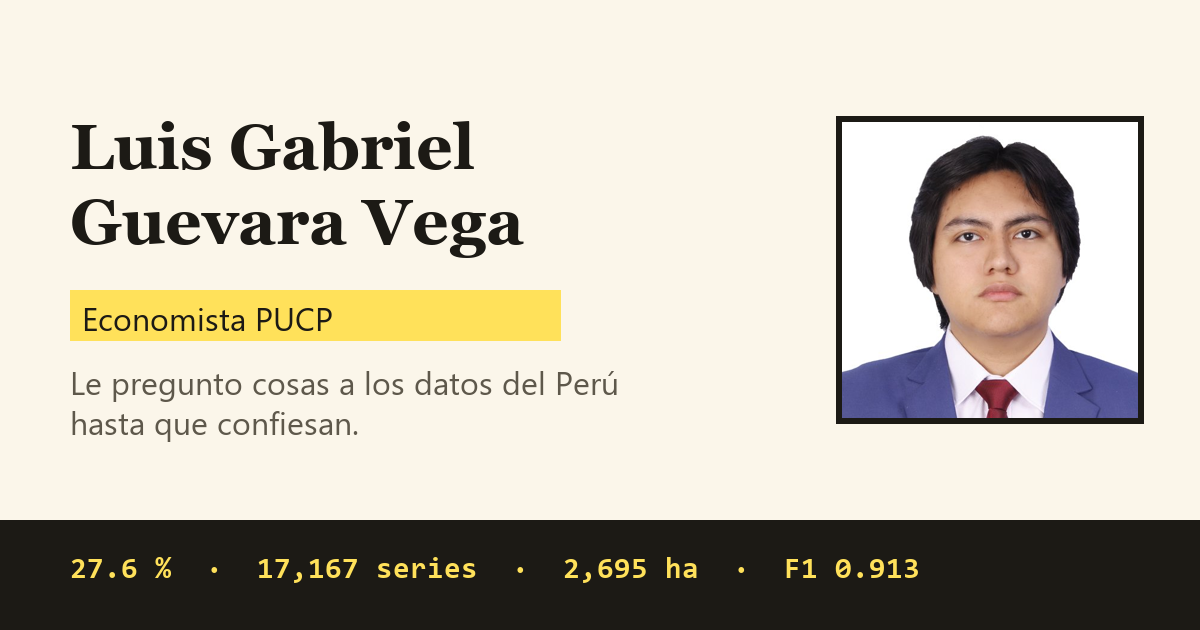
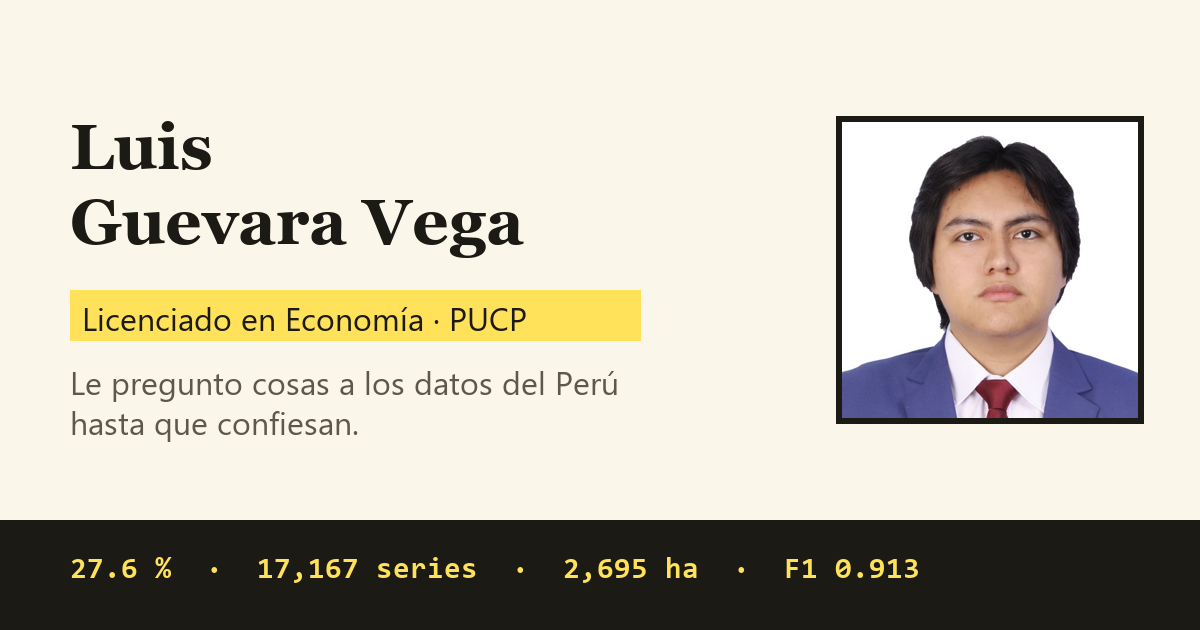
Ajustes: licenciado, nombre, foto más chica, Ahora mismo, un solo video, tesis y CV actualizados

Changed region(s): [[0.0617, 0.4825, 0.4317, 0.5429], [0.185, 0.181, 0.4008, 0.2714], [0.4625, 0.4524, 0.555, 0.5429]]

diff --git a/_layouts/inicio.html b/_layouts/inicio.html
@@ -9,10 +9,10 @@ layout: default
 
   <section class="hero">
     <div class="hero__texto">
-      <p class="kicker">Economista PUCP · Lima, Perú</p>
+      <p class="kicker">Licenciado en Economía · PUCP · Lima, Perú</p>
       <h1>Le pregunto cosas a los datos del Perú <em>hasta que confiesan.</em></h1>
       <p class="hero__bio">
-        Soy <strong>Luis Gabriel Guevara Vega</strong>, especialista de monitoreo y evaluación en
+        Soy <strong>Luis Guevara Vega</strong>, licenciado en Economía por la PUCP y analista y gestor de datos de monitoreo en
         <a href="https://www.copeme.org.pe">COPEME</a>. Uso Python, R y Claude Code para medir lo que pasa en el Perú:
         pobreza, incendios, aprendizajes y empleo.
       </p>
@@ -27,8 +27,8 @@ layout: default
       </ul>
     </div>
     <figure class="polaroid">
-      <img src="{{ base_path }}/images/perfil.jpg" alt="Foto de Luis Gabriel Guevara Vega" fetchpriority="high">
-      <figcaption>modo terno: activado</figcaption>
+      <img src="{{ base_path }}/images/perfil.jpg" alt="Foto de Luis Guevara Vega" fetchpriority="high">
+      <figcaption>conectando puntos (y bases de datos)</figcaption>
     </figure>
   </section>
 
@@ -62,7 +62,7 @@ layout: default
 
   <section class="seccion dos-columnas">
     <article class="caja">
-      <p class="kicker">Tesis de licenciatura · Mención sobresaliente</p>
+      <p class="kicker">Tesis de licenciatura · <strong>Mención sobresaliente</strong></p>
       <h2>¿Sirvió el licenciamiento de universidades para conseguir mejores empleos?</h2>
       <p>Medí el efecto de la regulación de la SUNEDU sobre la inadecuación profesional de los egresados, con la ENAHO 2014–2022, diferencias en diferencias y variables instrumentales.</p>
       <div class="numeros">
@@ -75,9 +75,9 @@ layout: default
     <article class="caja">
       <p class="kicker">Ahora mismo</p>
       <ul class="ahora-lista">
-        <li><span class="emoji" aria-hidden="true">📊</span><p>Hago el monitoreo y la evaluación de <b>«Tejiendo Futuros»</b> en Ayacucho y Amazonas, con COPEME.</p></li>
+        <li><span class="emoji" aria-hidden="true">⚓</span><p>Lidero el monitoreo del nuevo proyecto de COPEME asociado al <b>puerto de Chancay</b>, con financiamiento de la cooperación alemana.</p></li>
         <li><span class="emoji" aria-hidden="true">🤖</span><p>Estoy en la diplomatura de ciencia de datos de <b>QLab PUCP</b>, construyendo cosas con Claude Code.</p></li>
-        <li><span class="emoji" aria-hidden="true">🎬</span><p>Hice dos reels narrados con mi voz clonada (y avisando que es IA). <a href="{{ base_path }}/videos/">Míralos aquí</a>.</p></li>
+        <li><span class="emoji" aria-hidden="true">🎓</span><p>Me acabo de incorporar al <b>Colegio de Economistas de Lima (CEL)</b>. <a href="https://lnkd.in/p/eRGwcDGe">Lo conté aquí</a>.</p></li>
       </ul>
     </article>
   </section>

diff --git a/assets/css/gabo.css b/assets/css/gabo.css
@@ -170,7 +170,7 @@ html[data-theme="dark"] .boton--rojo { color: #16150f !important; }
   padding: 1rem 0 2.5rem;
 }
 @media (min-width: 860px) {
-  .hero { grid-template-columns: 1.55fr 1fr; }
+  .hero { grid-template-columns: 1.9fr 1fr; }
 }
 .hero h1 {
   font-size: clamp(2.2rem, 6vw, 4.1rem);
@@ -199,7 +199,7 @@ html[data-theme="dark"] .boton--rojo { color: #16150f !important; }
 
 .polaroid {
   justify-self: center;
-  width: min(300px, 78vw);
+  width: min(230px, 62vw);
   margin: 0;
   padding: 14px 14px 0;
   background: #fff;
@@ -397,8 +397,9 @@ html[data-theme="dark"] .boton--rojo { color: #16150f !important; }
 }
 
 /* ---------- Videos ---------- */
-.videos { display: grid; gap: 2rem; grid-template-columns: 1fr; }
-@media (min-width: 760px) { .videos { grid-template-columns: repeat(2, 1fr); } }
+.videos { display: grid; gap: 2rem; grid-template-columns: 1fr; max-width: 440px; }
+.figura-chica { max-width: 640px; }
+.figura-chica img { width: 100%; }
 .video {
   background: var(--tarjeta);
   border: 2px solid var(--linea);

diff --git a/_pages/cv.md b/_pages/cv.md
@@ -3,7 +3,7 @@ layout: ancho
 title: "CV"
 permalink: /cv/
 kicker: "Currículum · actualizado a noviembre de 2026"
-bajada: "Economista PUCP con experiencia en monitoreo y evaluación de proyectos sociales. Uso Python, R, Stata y Power BI para dar seguimiento a lo que importa."
+bajada: "Licenciado en Economía por la PUCP, con experiencia en monitoreo y evaluación de proyectos sociales. Uso Python, R, Stata y Power BI para dar seguimiento a lo que importa."
 ---
 
 <p class="hero__botones">
@@ -16,7 +16,12 @@ bajada: "Economista PUCP con experiencia en monitoreo y evaluación de proyectos
 
 <ul class="linea-tiempo">
   <li>
-    <span class="cuando">JUN 2026 – HOY · COPEME</span>
+    <span class="cuando">ACTUAL · COPEME</span>
+    <h3>Analista y Gestor de Datos de Monitoreo</h3>
+    <p>Lidero el monitoreo del nuevo proyecto asociado al puerto de Chancay, con financiamiento de la cooperación alemana. Doy consultoría a cooperativas de café en Pichanaki (Junín) y automatizo datos para asociaciones de castaña en Puerto Maldonado (Madre de Dios).</p>
+  </li>
+  <li>
+    <span class="cuando">JUN 2026 · COPEME</span>
     <h3>Especialista de Monitoreo y Evaluación</h3>
     <p>Proyecto «Tejiendo Futuros: Información que Empodera» (Ayacucho y Amazonas), gestionado por SENAJU con financiamiento de APC Colombia. Elaboré los planes MERL y de sistematización de experiencias.</p>
   </li>
@@ -41,9 +46,19 @@ bajada: "Economista PUCP con experiencia en monitoreo y evaluación de proyectos
 
 <ul class="linea-tiempo">
   <li>
+    <span class="cuando">2026 · COLEGIO DE ECONOMISTAS DE LIMA</span>
+    <h3>Economista colegiado (CEL)</h3>
+    <p>Recién incorporado al Colegio de Economistas de Lima. <a href="https://lnkd.in/p/eRGwcDGe">Ver la publicación</a>.</p>
+  </li>
+  <li>
+    <span class="cuando">AGO 2026 – HOY · QLab, Facultad de Ciencias Sociales PUCP</span>
+    <h3>Diplomado de Ciencia de Datos · <mark>Becado</mark></h3>
+    <p>Diplomatura de Especialización en Ciencia de Datos para las Ciencias Sociales y la Gestión Pública, en curso. Python, R y Claude Code aplicados a datos del Perú. Los trabajos están en <a href="{{ site.baseurl }}/proyectos/">Proyectos</a>.</p>
+  </li>
+  <li>
     <span class="cuando">JUL 2026 · PUCP</span>
     <h3>Licenciado en Economía</h3>
-    <p>Mención sobresaliente. <a href="{{ site.baseurl }}/tesis/">Ver la tesis</a>.</p>
+    <p><strong>Mención sobresaliente.</strong> <a href="{{ site.baseurl }}/tesis/">Ver la tesis</a>.</p>
   </li>
   <li>
     <span class="cuando">DIC 2019 – OCT 2024 · PUCP</span>
@@ -51,9 +66,9 @@ bajada: "Economista PUCP con experiencia en monitoreo y evaluación de proyectos
     <p>Quinto superior.</p>
   </li>
   <li>
-    <span class="cuando">2026 · QLab, Facultad de Ciencias Sociales PUCP</span>
-    <h3>Ciencia de datos: Python, R y Claude Code</h3>
-    <p>Beca en la Summer School 2026 y cursos de la diplomatura en ciencia de datos. Los proyectos están en <a href="{{ site.baseurl }}/proyectos/">Proyectos</a>.</p>
+    <span class="cuando">FEB 2026 – ABR 2026 · QLab, Facultad de Ciencias Sociales PUCP</span>
+    <h3>Summer School 2026 · <mark>Becado</mark></h3>
+    <p>Cursos especializados en análisis económico y ciencia de datos del Laboratorio de Inteligencia Artificial y Métodos Computacionales en Ciencias Sociales (QLab).</p>
   </li>
 </ul>
 

diff --git a/_pages/videos.md b/_pages/videos.md
@@ -2,8 +2,8 @@
 layout: ancho
 title: "Videos"
 permalink: /videos/
-kicker: "Reels · un minuto cada uno"
-bajada: "Dos informes convertidos en reels verticales, narrados con mi voz clonada con IA. Cada cifra se revisó contra el informe original."
+kicker: "Reel · 57 segundos"
+bajada: "Un informe convertido en reel vertical, narrado con mi voz clonada con IA. Cada cifra se revisó contra los datos originales."
 ---
 
 <div class="videos">
@@ -17,15 +17,5 @@ bajada: "Dos informes convertidos en reels verticales, narrados con mi voz clona
     <h3>Aprender después de la pandemia</h3>
     <p>57 segundos sobre cuánto aprendizaje se perdió con el cierre de escuelas y quiénes se quedan atrás. Las figuras salen de los datos del MINEDU y la música es CC BY.</p>
     <p class="enlaces"><a href="{{ site.baseurl }}/portfolio/04-aprendizajes/">El proyecto</a><a href="https://github.com/LuisGuevaraVega/python_interm_dip_qlab/tree/main/tarea_3/reel">Cómo se hizo</a></p>
-  </article>
-
-  <article class="video">
-    <a class="video__portada" href="https://github.com/LuisGuevaraVega/reel-incendios/blob/main/salidas/reel.mp4" aria-label="Ver el reel de incendios en GitHub">
-      <img src="{{ site.baseurl }}/images/proyectos/reel-incendios.jpg" alt="Portada del reel sobre los incendios de Chichas y Río Tambo" loading="lazy">
-    </a>
-    <span class="aviso-ia">Voz generada con IA</span>
-    <h3>Incendios en el Perú vistos desde el espacio</h3>
-    <p>59.6 segundos sobre los incendios de Chichas y Río Tambo. El guion lo escribió DeepSeek y lo revisé frase por frase. La voz es Qwen3-TTS y los subtítulos, Whisper.</p>
-    <p class="enlaces"><a href="{{ site.baseurl }}/portfolio/05-reel-incendios/">El proyecto</a><a href="https://github.com/LuisGuevaraVega/reel-incendios">Cómo se hizo</a></p>
   </article>
 </div>

diff --git a/_pages/tesis.md b/_pages/tesis.md
@@ -3,7 +3,7 @@ layout: ancho
 title: "Efectos de la regulación de la calidad educativa universitaria sobre la inadecuación profesional de los egresados en el Perú, 2014–2022"
 permalink: /tesis/
 kicker: "Tesis de licenciatura en Economía · PUCP · 2026"
-bajada: "Luis Gabriel Guevara Vega · Asesor: Carlos Archer Pérez Cavero · Sustentada el 21 de julio de 2026 · Mención sobresaliente"
+bajada: "Luis Gabriel Guevara Vega · Asesor: Carlos Archer Pérez Cavero · Sustentada el 21 de julio de 2026 · <strong>Mención sobresaliente</strong>"
 ---
 
 <p class="hero__botones">
@@ -20,7 +20,7 @@ Cuando la SUNEDU otorga o deniega la licencia a una universidad, ¿cambia la pro
   <div class="numero"><b>+44.3 pp</b><span>de probabilidad de empleo no profesional cuando la licencia se deniega</span></div>
 </div>
 
-<figure class="caja">
+<figure class="caja figura-chica">
   <img src="{{ site.baseurl }}/images/proyectos/tesis.jpg" alt="Gráfico de barras: egresados con ocupación no profesional por año. Universidades licenciadas: 45 % en 2014, 48 % en 2019, 54 % en 2021 y 54 % en 2022. No licenciadas: 53 %, 55 %, 59 % y 60 %.">
 </figure>
 

diff --git a/_portfolio/05-reel-incendios.md b/_portfolio/05-reel-incendios.md
@@ -11,7 +11,6 @@ cifra: "59.6 s"
 resultado: "de reel en 8 escenas. DeepSeek inventó menos que Qwen, y cada frase se revisó contra el informe."
 excerpt: "Reel vertical narrado con mi voz clonada (Qwen3-TTS) y subtítulos palabra por palabra (Whisper)."
 enlaces:
-  - {texto: "Ver el reel", url: "/videos/"}
   - {texto: "Código", url: "https://github.com/LuisGuevaraVega/reel-incendios"}
   - {texto: "Qwen vs DeepSeek", url: "https://github.com/LuisGuevaraVega/reel-incendios/blob/main/comparacion.md"}
 ---

diff --git a/_pages/about.md b/_pages/about.md
@@ -1,6 +1,6 @@
 ---
 permalink: /
-title: "Luis Gabriel Guevara Vega"
+title: "Luis Guevara Vega"
 layout: inicio
 author_profile: false
 redirect_from:
